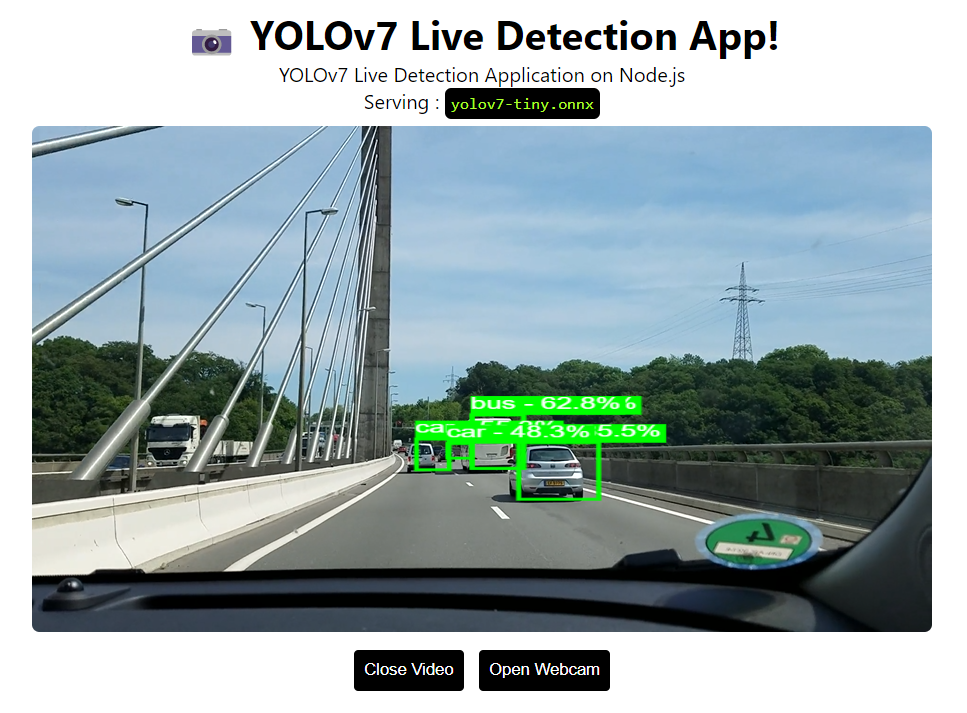
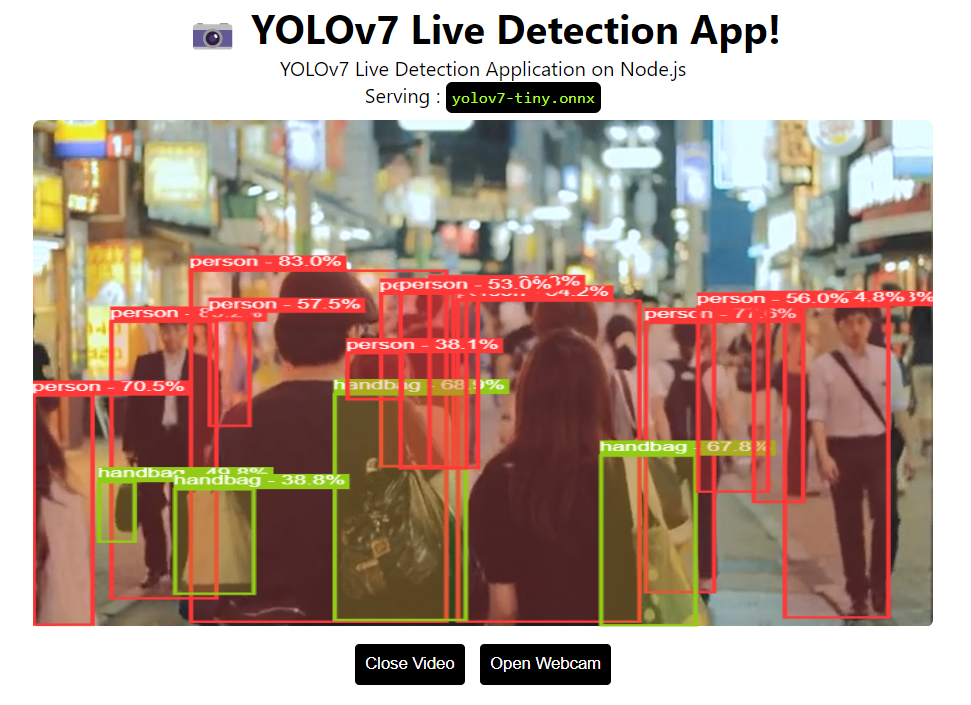
Update boxes drawing to have colors and Update image preprocessing to increase model performance

diff --git a/public/js/utils.js b/public/js/utils.js
@@ -1,24 +1,37 @@
+/**
+ * Render prediction boxes
+ * @param {Array[Object]} boxes boxes array
+ * @param {CanvasRenderingContext2D} ctx canvas rendering context
+ */
 export const renderBoxes = (boxes, ctx) => {
   ctx.clearRect(0, 0, ctx.canvas.width, ctx.canvas.height); // clean canvas
 
+  const colors = new Colors();
+
   // font configs
-  const font = "20px sans-serif";
+  const font = `${Math.max(
+    Math.round(Math.max(ctx.canvas.width, ctx.canvas.height) / 40),
+    14
+  )}px Arial`;
   ctx.font = font;
   ctx.textBaseline = "top";
 
-  // iterate through all boxes
   boxes.forEach((box) => {
     const klass = labels[box.classId];
+    const color = colors.get(box.classId);
     const score = (box.probability * 100).toFixed(1);
-    let [x1, y1, width, height] = box.bounding;
+    const [x1, y1, width, height] = box.bounding;
 
-    // Draw the bounding box.
-    ctx.strokeStyle = "#00FF00";
-    ctx.lineWidth = 3.5;
+    // draw box.
+    ctx.fillStyle = Colors.hexToRgba(color, 0.2);
+    ctx.fillRect(x1, y1, width, height);
+    // draw border box
+    ctx.strokeStyle = color;
+    ctx.lineWidth = Math.max(Math.min(ctx.canvas.width, ctx.canvas.height) / 200, 2.5);
     ctx.strokeRect(x1, y1, width, height);
 
-    // Draw the label background.
-    ctx.fillStyle = "#00FF00";
+    // draw the label background.
+    ctx.fillStyle = color;
     const textWidth = ctx.measureText(klass + " - " + score + "%").width;
     const textHeight = parseInt(font, 10); // base 10
     const yText = y1 - (textHeight + ctx.lineWidth);
@@ -31,9 +44,49 @@ export const renderBoxes = (boxes, ctx) => {
 
     // Draw labels
     ctx.fillStyle = "#ffffff";
-    ctx.fillText(klass + " - " + score + "%", x1 - 1, yText < 0 ? 0 : yText);
+    ctx.fillText(klass + " - " + score + "%", x1 - 1, yText < 0 ? 1 : yText + 1);
   });
 };
+
+class Colors {
+  // ultralytics color palette https://ultralytics.com/
+  constructor() {
+    this.palette = [
+      "#FF3838",
+      "#FF9D97",
+      "#FF701F",
+      "#FFB21D",
+      "#CFD231",
+      "#48F90A",
+      "#92CC17",
+      "#3DDB86",
+      "#1A9334",
+      "#00D4BB",
+      "#2C99A8",
+      "#00C2FF",
+      "#344593",
+      "#6473FF",
+      "#0018EC",
+      "#8438FF",
+      "#520085",
+      "#CB38FF",
+      "#FF95C8",
+      "#FF37C7",
+    ];
+    this.n = this.palette.length;
+  }
+
+  get = (i) => this.palette[Math.floor(i) % this.n];
+
+  static hexToRgba = (hex, alpha) => {
+    var result = /^#?([a-f\d]{2})([a-f\d]{2})([a-f\d]{2})$/i.exec(hex);
+    return result
+      ? `rgba(${[parseInt(result[1], 16), parseInt(result[2], 16), parseInt(result[3], 16)].join(
+          ", "
+        )}, ${alpha})`
+      : null;
+  };
+}
 
 const labels = [
   "person",

diff --git a/public/js/detect.js b/public/js/detect.js
@@ -3,6 +3,9 @@ import { renderBoxes } from "./utils.js";
 /**
  * Do detection process to show boxes in canvas
  * WARNING: this function really depended on global streaming state and modelInputShape
+ * @param {HTMLImageElement|HTMLVideoElement} src Image to detect
+ * @param {HTMLCanvasElement} canvas canvas to draw boxes
+ * @param {any} socket socket.io object
  */
 export const detect = (src, canvas, socket) => {
   const ctx = canvas.getContext("2d");
@@ -10,7 +13,7 @@ export const detect = (src, canvas, socket) => {
 
   const cap = new cv.VideoCapture(src); // capture video
   const mat = new cv.Mat(src.height, src.width, cv.CV_8UC4); // original frame
-  const matC3 = new cv.Mat(modelWidth, modelHeight, cv.CV_8UC3); // resize to new image matrix
+  const matC3 = new cv.Mat(src.height, src.width, cv.CV_8UC3); // resize to new image matrix
 
   const processVideo = async () => {
     try {
@@ -24,17 +27,28 @@ export const detect = (src, canvas, socket) => {
       // start processing.
       cap.read(mat); // read video frame
       cv.cvtColor(mat, matC3, cv.COLOR_RGBA2BGR); // RGBA to BGR
+
+      // padding image to [n x n] dim
+      const maxSize = Math.max(matC3.rows, matC3.cols); // get max size from width and height
+      const xPad = maxSize - matC3.cols, // set xPadding
+        xRatio = maxSize / matC3.cols; // set xRatio
+      const yPad = maxSize - matC3.rows, // set yPadding
+        yRatio = maxSize / matC3.rows; // set yRatio
+      const matPad = new cv.Mat(); // new mat for padded image
+      cv.copyMakeBorder(matC3, matPad, 0, yPad, 0, xPad, cv.BORDER_CONSTANT, [0, 0, 0, 255]); // padding black
+
       const input = cv.blobFromImage(
-        matC3,
+        matPad,
         1 / 255.0,
         new cv.Size(modelWidth, modelHeight),
         new cv.Scalar(0, 0, 0),
         true,
         false
-      ); // preprocessing image matrix to blob
+      ); // preprocessing image matrix
+
       const array = input.data32F.slice(); // image array
       const boxes = await new Promise((resolve) => {
-        socket.emit("videoframe", array, (boxes) => {
+        socket.emit("videoframe", array, xRatio, yRatio, (boxes) => {
           resolve(boxes);
         });
       }); // send image array to backend and await response (boxes)

diff --git a/src/index.js b/src/index.js
@@ -37,7 +37,7 @@ app.get("/", (req, res) => {
   res.sendFile(__dirname + "/index.html");
 });
 
-const detect = async (frame) => {
+const detect = async (frame, xRatio, yRatio) => {
   const input = new Float32Array(frame.buffer);
   const tensor = new ort.Tensor("float32", input, modelInfo.inputShape); // to ort.Tensor
   const { output } = await session.run({ images: tensor }); // run session and get output layer
@@ -52,7 +52,7 @@ const detect = async (frame) => {
     boxes.push({
       classId: classId,
       probability: score,
-      bounding: [x0, y0, w, h],
+      bounding: [x0 * xRatio, y0 * yRatio, w * xRatio, h * yRatio],
     });
   }
   return boxes;
@@ -66,8 +66,8 @@ io.on("connection", (socket) => {
   });
 
   // get image array from frontend and do detection
-  socket.on("videoframe", async (frame, callback) => {
-    const boxes = await detect(frame);
+  socket.on("videoframe", async (frame, xRatio, yRatio, callback) => {
+    const boxes = await detect(frame, xRatio, yRatio);
     callback(boxes); // send boxes to frontend
   });
 });
